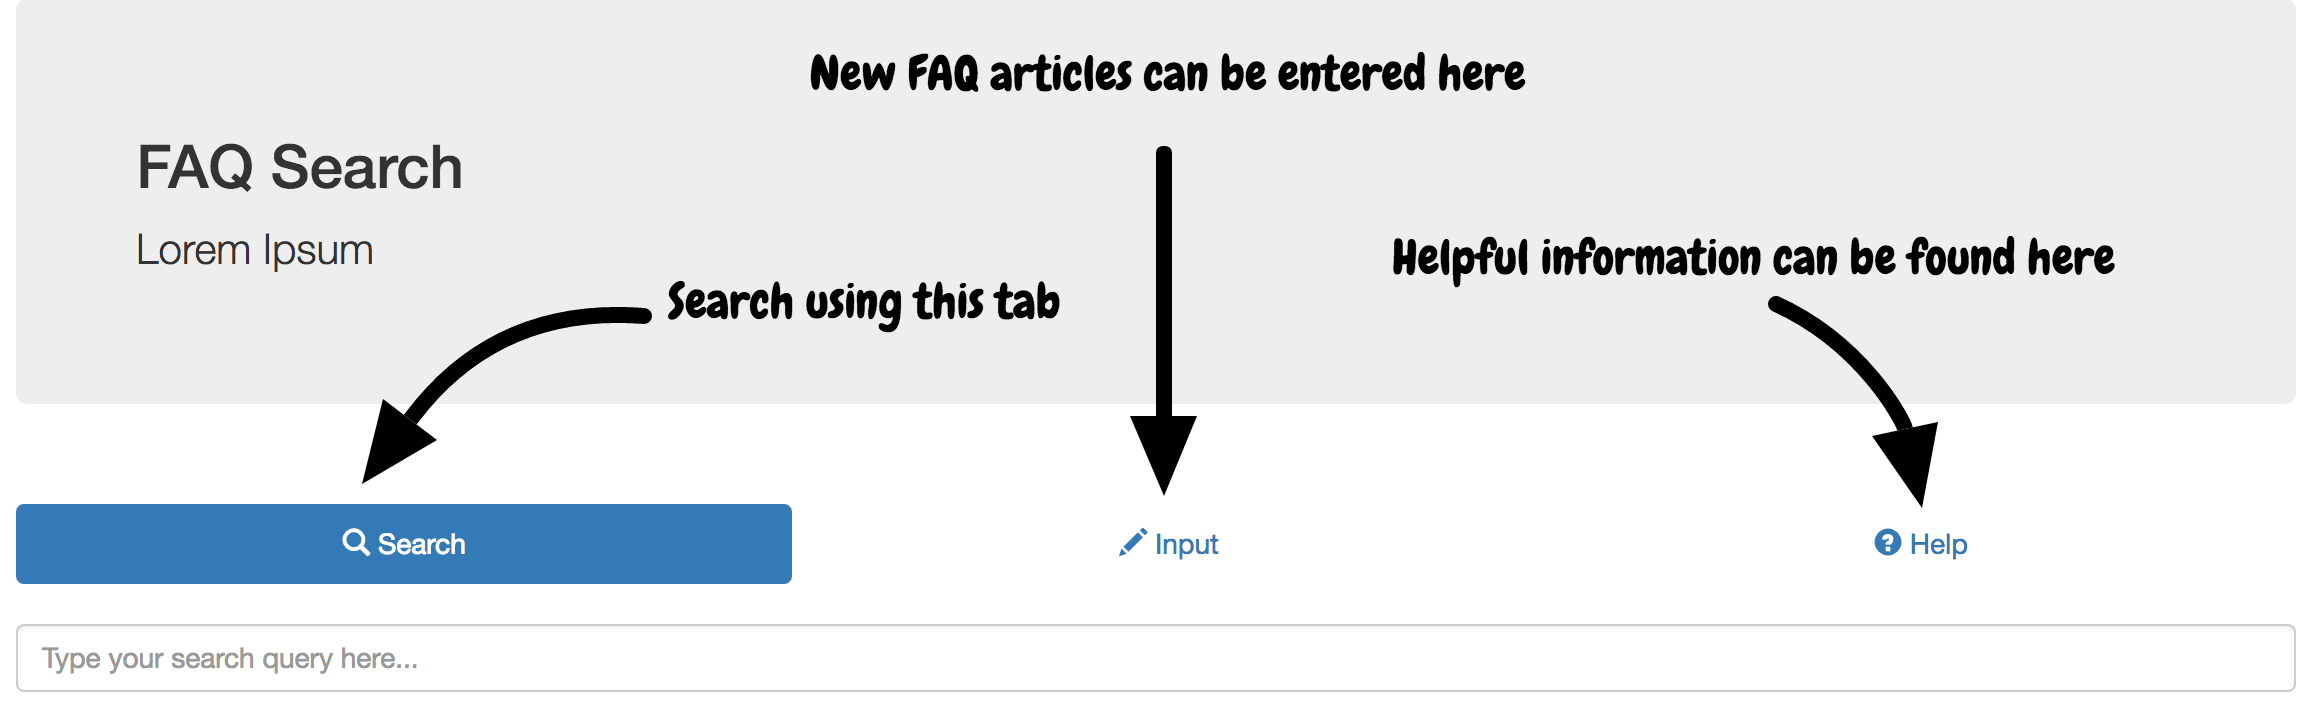
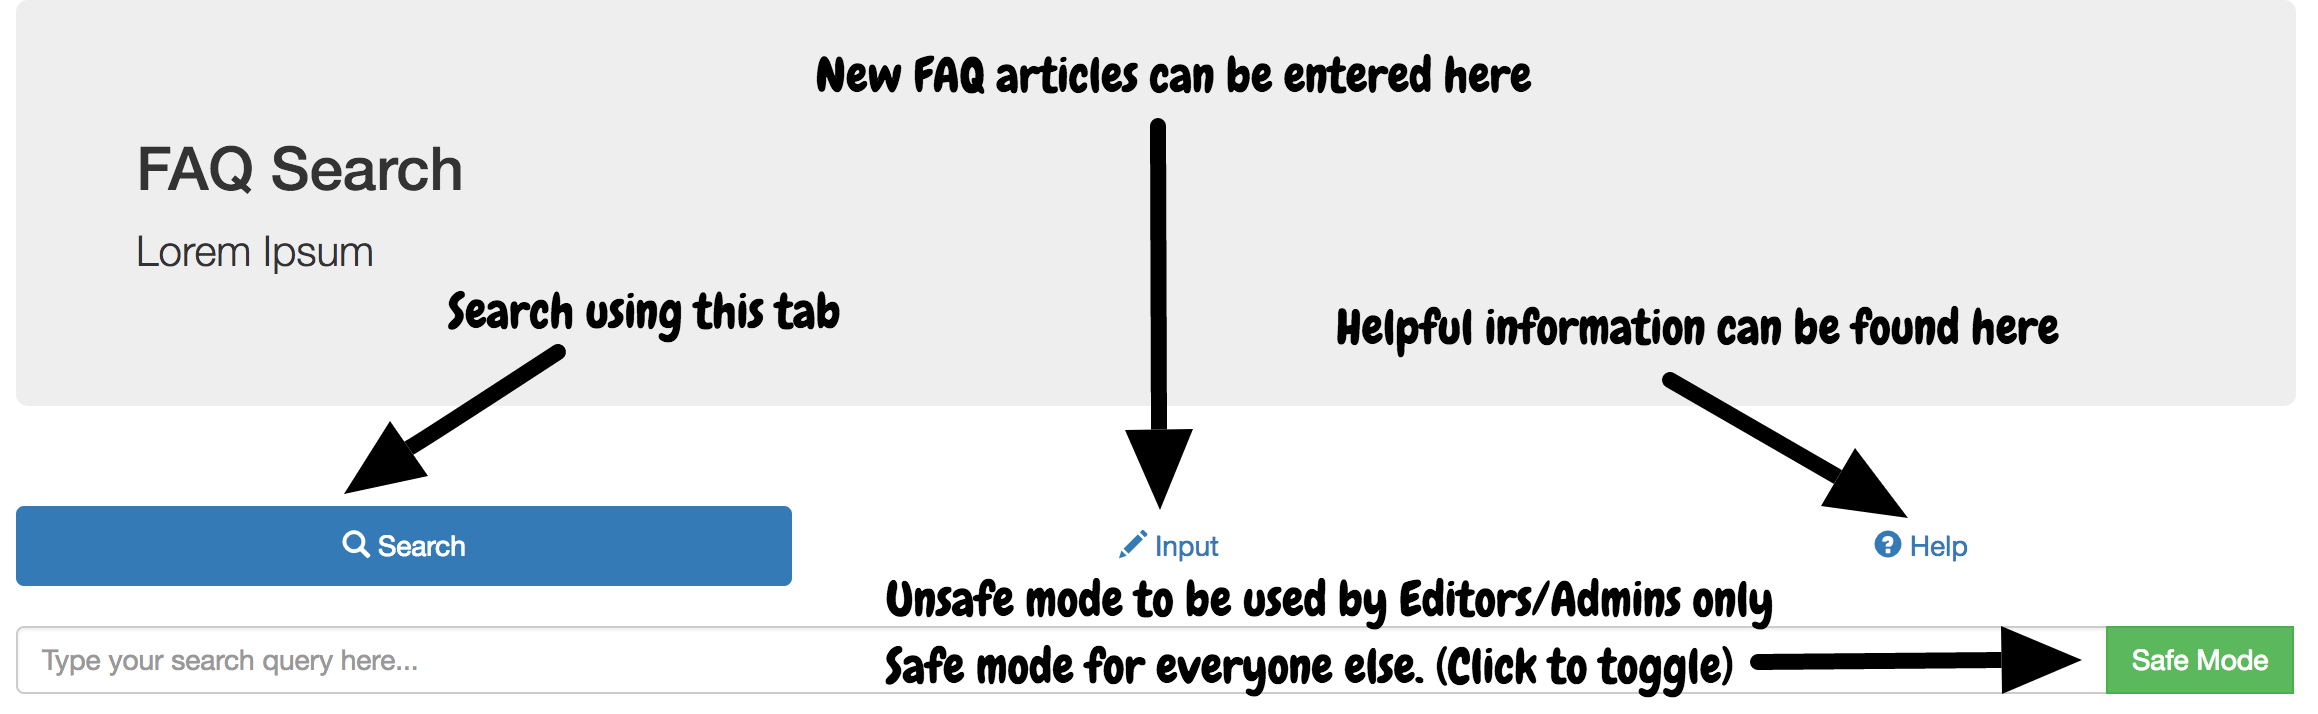
Adding admin mode details.

diff --git a/index.html b/index.html
@@ -204,6 +204,17 @@
                     alt="Responsive image">
                 </div>
               </div>
+              <div class="panel-info">
+                <div class="panel-heading">
+                  <h3 class="panel-title">
+                    Admin/Editor mode
+                  </h3>
+                </div>
+                <div class="panel-body">
+                  <img src="img/s4.png" class="img-fluid col-md-10 col-md-offset-1"
+                    alt="Responsive image">
+                </div>
+              </div>
             </div>
           </div>
         </div>

diff --git a/README.md b/README.md
@@ -57,3 +57,7 @@ npm start
 ![search](img/s2.png)
 
 ![new-article](img/s3.png)
+
+## Editing or Curation using admin mode
+
+![curation](img/s4.png)
